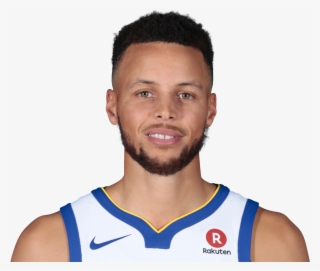
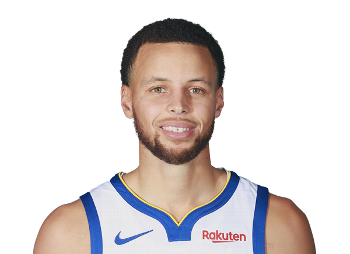
changed Welcome page picutres, added comments

Changed region(s): [[0.0312, 0.0276, 0.9688, 1.0]]

diff --git a/Welcome/WelcomePage.html b/Welcome/WelcomePage.html
@@ -14,9 +14,12 @@
     </head>
 
     <body>
+        <!-- design inspiration from https://www.skipthedishes.com -->
         <div class = "pageContainer">
+            <!-- navigation bar -->
             <div class="navigationBar">
                 <a href="./WelcomePage.html">
+                    <!-- logo provided by https://www.freelogodesign.org/ -->
                     <img src="../pictures/NBAStatGrapherLogo.png" id="logo" alt="NBA Stat Grapher Logo" />
                 </a>                
                 <button id="aboutUsButton" onclick="window.location='../AboutUs/AboutUs.html'">About Us</button>
@@ -25,50 +28,54 @@
             <div class="pageContents">
                 <h1 class="welcomeTitle">Welcome</h1>
                 <div class="searchBar">
+                    <!-- search bar -->
                     <input type="text" placeholder="Search for your favourite player..." />
                     <button id="search" onclick="window.location='#'"><i class="fas fa-search"></i></button>
                 </div>
                 <div class="mostPopularPlayers">
                     <h2 class="mostPopularPlayersTitle">Most Popular Players</h2>
 
+                    <!-- images provided by https://www.espn.com/nba/player/ -->
                     <div class="playerRow">
+                        <!-- row of players -->
                         <div class="player" onclick="window.location='#'">
                             <img src="../pictures/lebronJamesPic.png" class="headshot" alt="picture of player" />
                             <p class="playerName">LeBron James</p>
                         </div>
                         <div class="player" onclick="window.location='#'">
-                            <img src="../pictures/kawhiLeonardPic.jpg" class="headshot" alt="picture of player" />
+                            <img src="../pictures/kawhiLeonardPic.png" class="headshot" alt="picture of player" />
                             <p class="playerName">Kawhi Leonard</p>
                         </div>
                         <div class="player" onclick="window.location='#'">
-                            <img src="../pictures/kevinDurantHeadshot.jpg" class="headshot" alt="picture of player" />
+                            <img src="../pictures/kevinDurantPic.png" class="headshot" alt="picture of player" />
                             <p class="playerName">Kevin Durant</p>
                         </div>
                         <div class="player" onclick="window.location='#'">
-                            <img src="../pictures/giannisAntetokounmpoPic.jpg" class="headshot" alt="picture of player" />
+                            <img src="../pictures/giannisAntetokounmpoPic.png" class="headshot" alt="picture of player" />
                             <p class="playerName">Giannis Antetokounmpo</p>
                         </div>
                         <div class="player" onclick="window.location='#'">
-                            <img src="../pictures/jamesHardenPic.jpg" class="headshot" alt="picture of player" />
+                            <img src="../pictures/jamesHardenPic.png" class="headshot" alt="picture of player" />
                             <p class="playerName">James Harden</p>
                         </div>
                     </div>
 
                     <div class="playerRow">
+                        <!-- row of players -->
                         <div class="player" onclick="window.location='#'">
                             <img src="../pictures/stephCurryPic.png" class="headshot" alt="picture of player" />
                             <p class="playerName">Stephen Curry</p>
                         </div>
                         <div class="player" onclick="window.location='#'">
-                            <img src="../pictures/russellWestbrookPic.jpg" class="headshot" alt="picture of player" />
+                            <img src="../pictures/russellWestbrookPic.png" class="headshot" alt="picture of player" />
                             <p class="playerName">Russell Westbrook</p>
                         </div>
                         <div class="player" onclick="window.location='#'">
-                            <img src="../pictures/anthonyDavisPic.jpg" class="headshot" alt="picture of player" />
+                            <img src="../pictures/anthonyDavisPic.png" class="headshot" alt="picture of player" />
                             <p class="playerName">Anthony Davis</p>
                         </div>
                         <div class="player" onclick="window.location='#'">
-                            <img src="../pictures/paulGeorgePic.jpg" class="headshot" alt="picture of player" />
+                            <img src="../pictures/paulGeorgePic.png" class="headshot" alt="picture of player" />
                             <p class="playerName">Paul George</p>
                         </div>
                         <div class="player" onclick="window.location='#'">
@@ -79,8 +86,6 @@
                     
                 </div>
             </div>
-            
-            
                         
         </div>
     </body>

diff --git a/Welcome/WelcomePage.css b/Welcome/WelcomePage.css
@@ -3,7 +3,7 @@ body, html {
     color: #ccf6ff;
     height: 100%;
     margin: 0;
-    overflow-x: hidden; /* hide horizontal scrollbar */ 
+    overflow-x: hidden; /* hide horizontal scrollbar */
 }
 
 /* for page container */
@@ -14,6 +14,7 @@ body, html {
 
 /* for navigation bar */
 .navigationBar {
+    /* flexbox is used to layout content for page */
     display: flex;
     justify-content: space-between;
     align-items: center;
@@ -89,6 +90,7 @@ body, html {
     margin: 0 30px;
 }
 .playerRow .player {
+    /* CSS for each player div */
     width: 200px;
     height: 250px;
     background-color: #485861;
@@ -100,15 +102,18 @@ body, html {
     flex-direction: column;
     cursor: pointer;
 }
-.playerRow .headshot {
+.playerRow .player .headshot {
+    /* CSS for each player headshot (in each .player div) */
     display: block;
     width: 80%;
     min-width: 100px;
     max-width: 150px; /*actual image width*/
     height: auto; /* maintain aspect ratio*/
+    max-height: 150px;
     margin: auto; /*optional centering of image*/
     border-radius: 50%;
 }
 .player .playerName {
     font-size: 25px;
+    text-decoration: underline;
 }
